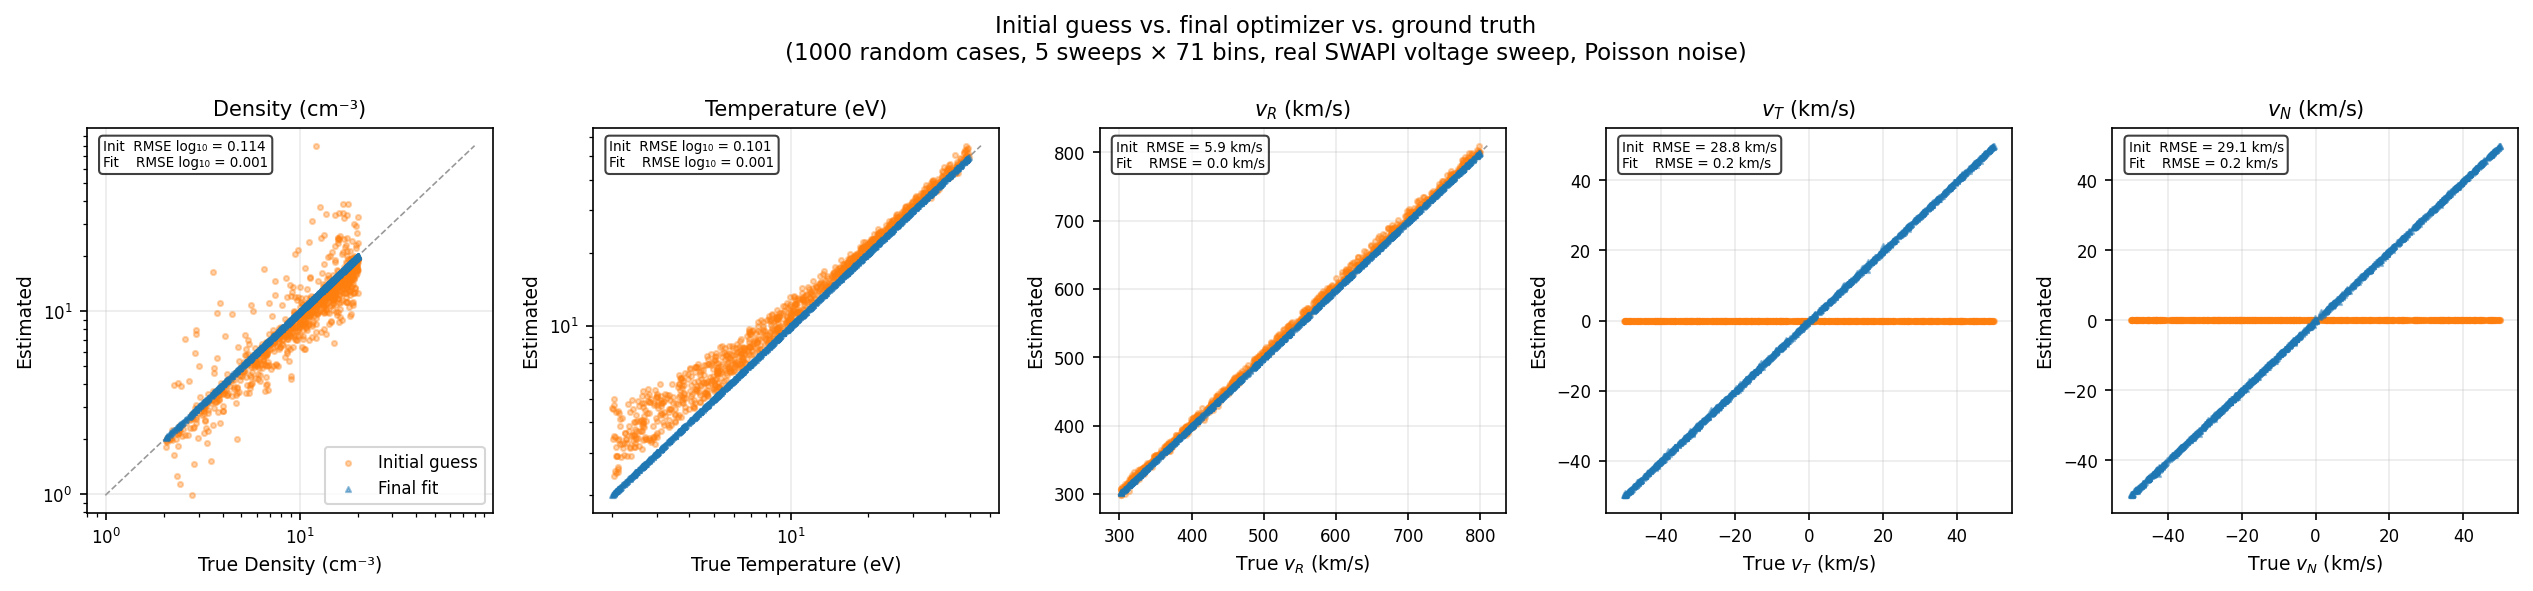
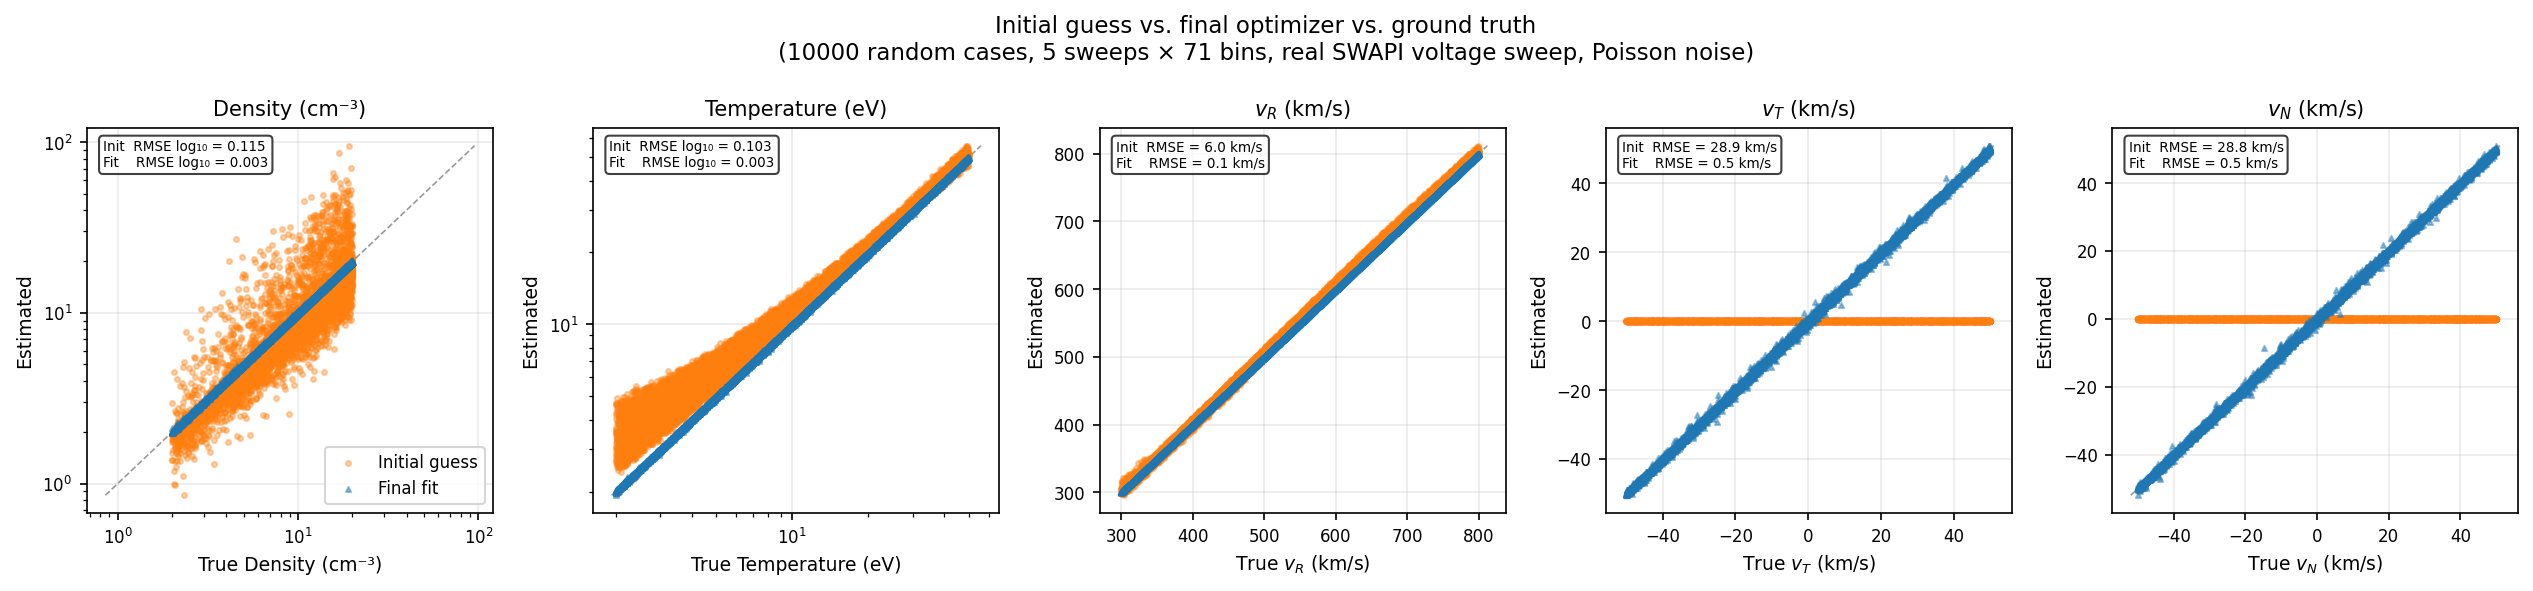
flip in instrument coordinates

diff --git a/docs/swapi/figure_src/plot_initial_guess_accuracy.py b/docs/swapi/figure_src/plot_initial_guess_accuracy.py
@@ -3,7 +3,7 @@
 Scatter plots comparing the initial guess and final optimizer output against
 ground truth for 1000 random solar wind parameter sets.
 
-Uses the real SWAPI 71-bin science voltage sweep (from the test L2 CDF) with 5
+Uses realistic SWAPI 71-bin science voltage sweep (from the test L2 CDF) with 5
 sweeps per fit — matching the production processor exactly. Synthetic count rates
 are generated from the forward model with realistic SWAPI geometry (spin axis =
 boresight = +Y_SWAPI, 15 s spin period) and Poisson noise.
@@ -62,7 +62,7 @@ _R_BASE_RTN_TO_SWAPI = np.array([[ 0.0, 1.0, 0.0],
 
 
 def _load_science_voltages() -> np.ndarray:
-    """Return the 71 science bin voltages from a real L2 CDF."""
+    """Return the 71 science bin voltages from a realistic L2 CDF."""
     with spacepy.pycdf.CDF(str(_TEST_L2_CDF)) as cdf:
         esa_energy = cdf['esa_energy'][...]  # shape (n_sweeps, 72), in eV
     return esa_energy.mean(axis=0)[SWAPI_SCIENCE_BINS] / SWAPI_K_FACTOR
@@ -124,7 +124,7 @@ def _run_cases(sr: SWAPIResponse, voltages: np.ndarray) -> dict:
         true_vel = np.array([v_b, vT, vN])
 
         cr = _model_count_rates(n, T, true_vel, tiled_grids, rot, sc_vel)
-        cr = np.random.default_rng(i).poisson(np.maximum(cr, 0.0)).astype(float)
+        cr = np.random.default_rng(i).poisson(np.maximum(cr * .145, 0.0)).astype(float) / .145
 
         ig     = _get_initial_guess(cr, esa_full, tiled_grids, rot, sc_vel)
         result = _optimize(cr, tiled_grids, rot, sc_vel, ig)
@@ -169,7 +169,7 @@ def main():
         _INSTRUMENT_DATA / "imap_swapi_passband-fit-coefficients_20260425_v001.csv",
     )
 
-    print("Loading real SWAPI science voltages...")
+    print("Loading realistic SWAPI science voltages...")
     voltages = _load_science_voltages()
     print(f"  {len(voltages)} bins, {voltages.min():.1f}–{voltages.max():.1f} V")
 
@@ -208,7 +208,7 @@ def main():
     fig.suptitle(
         f"Initial guess vs. final optimizer vs. ground truth\n"
         f"({_N_SAMPLES} random cases, {_N_SWEEPS} sweeps × {_N_BINS} bins, "
-        f"real SWAPI voltage sweep, Poisson noise)",
+        f"realistic SWAPI voltage sweep, Poisson noise)",
         fontsize=11,
     )
 

diff --git a/imap_l3_processing/swapi/l3a/science/calculate_proton_solar_wind_moments.py b/imap_l3_processing/swapi/l3a/science/calculate_proton_solar_wind_moments.py
@@ -549,10 +549,14 @@ def _optimize(
     result = scipy.optimize.least_squares(residuals, x0, method="lm", diff_step=1e-4)
 
     # Wrong-basin detection via spin-axis mirror flip; see docs/swapi/solar-wind-moments.md.
+    # Spin axis in RTN = body-Y direction expressed in RTN coords = row 1 of R[i].
+    # 180° rotation about that axis: v' = 2(v·s)s − v.
     chi2 = float(np.sum(result.fun**2))
+    spin_axis_rtn = rotation_matrices[0, 1, :]
+    v_rtn = result.x[2:5]
+    v_flipped = 2.0 * float(np.dot(v_rtn, spin_axis_rtn)) * spin_axis_rtn - v_rtn
     x_flipped = result.x.copy()
-    x_flipped[3] = -x_flipped[3]
-    x_flipped[4] = -x_flipped[4]
+    x_flipped[2:5] = v_flipped
     chi2_flipped = float(np.sum(residuals(x_flipped) ** 2))
     if chi2_flipped < chi2:
         result = scipy.optimize.least_squares(

diff --git a/docs/swapi/solar-wind-moments.md b/docs/swapi/solar-wind-moments.md
@@ -138,7 +138,7 @@ The initial temperature is $T_0 = m_p \sigma_{\text{thermal}, v}^2$.
 The initial density is scaled to match the mean observed count rate:
 $$n_0 = \frac{\langle C_i \rangle}{\langle C_i^\text{model}(n=1) \rangle}.$$
 
-Figure below shows initial-guess and final-fit accuracy across 1000 random solar wind configurations (bulk speed 300–800 km/s, temperature 2–50 eV log-uniform, density 2–20 cm⁻³, $v_T, v_N \in [-50, 50]$ km/s). Synthetic count rates are produced from the forward model using the real SWAPI 71-bin science voltage sweep (from the L2 CDF), 5 sweeps per fit, realistic spin geometry (spin axis = boresight, 15 s period), and Poisson noise — matching the production processor exactly. The velocity initial guess for $v_T$ and $v_N$ is zero by construction; the final optimizer recovers them from the spin-phase modulation. 0 bad-fit flags across all 1000 cases. Generated by `docs/swapi/figure_src/plot_initial_guess_accuracy.py`.
+Figure below shows initial-guess and final-fit accuracy across 10000 random solar wind configurations (bulk speed 300–800 km/s, temperature 2–50 eV log-uniform, density 2–20 cm⁻³, $v_T, v_N \in [-50, 50]$ km/s). Synthetic count rates are produced from the forward model using the real SWAPI 71-bin science voltage sweep (from the L2 CDF), 5 sweeps per fit, realistic spin geometry (spin axis = boresight, 15 s period), and Poisson noise — matching the production processor exactly. The velocity initial guess for $v_T$ and $v_N$ is zero by construction; the final optimizer recovers them from the spin-phase modulation. 0 bad-fit flags across all 10000 cases. Generated by `docs/swapi/figure_src/plot_initial_guess_accuracy.py`.
 
 ![Initial-guess vs. final-optimizer accuracy for 1000 synthetic solar wind cases](figures/initial_guess_accuracy.png)
 
@@ -154,7 +154,9 @@ Density and temperature are parameterized in log-space to keep them positive thr
 
 The forward model is approximately invariant under the spin-axis mirror $(v_T, v_N) \rightarrow (-v_T, -v_N)$, broken only weakly by the SG passband elevation asymmetry ($[-10.5°, +7°]$) and (in real data) spacecraft velocity. The two basins are *not* truly degenerate — the truth is the global minimum, and the mirror is a local minimum with $\chi^2$ typically $100$–$500\times$ higher. But starting LM from $(v_T, v_N) = (0, 0)$ puts the optimizer on the saddle between them, so noise can push it into either basin, and once committed it stays trapped at the local minimum.
 
-Detection is cheap: after LM converges to $\hat{\mathbf{x}} = (\log n, \log T, v_R, v_T, v_N)$, evaluate the residual at the flipped point $\hat{\mathbf{x}}' = (\log n, \log T, v_R, -v_T, -v_N)$. If $\chi^2(\hat{\mathbf{x}}') < \chi^2(\hat{\mathbf{x}})$, LM was in the wrong basin — re-run LM from $\hat{\mathbf{x}}'$ to land at the correct local minimum. The cost is one extra residual evaluation in the typical case, plus one extra LM run for the $\sim 1\%$ of cases that need it. On a 1000-case synthetic benchmark covering bulk speeds 300–800 km/s and temperatures 2–50 eV, this fixes 8/8 sign-flip failures with no false positives.
+Detection is cheap: after LM converges to $\hat{\mathbf{x}} = (\log n, \log T, \mathbf{v}_b)$, build the flipped solution by rotating the bulk velocity 180° about the spin axis ($\hat{\mathbf{s}}$ in RTN, recovered as the second row of any rotation matrix since $R_i \hat{\mathbf{s}} = \hat{\mathbf{y}}_\text{SWAPI}$ by design):
+$$\mathbf{v}_b' = 2(\mathbf{v}_b \cdot \hat{\mathbf{s}})\,\hat{\mathbf{s}} - \mathbf{v}_b.$$
+This works for any spin axis orientation, not just radial. Evaluate the residual at $\hat{\mathbf{x}}' = (\log n, \log T, \mathbf{v}_b')$. If $\chi^2(\hat{\mathbf{x}}') < \chi^2(\hat{\mathbf{x}})$, LM was in the wrong basin — re-run LM from $\hat{\mathbf{x}}'$ to land at the correct local minimum. The cost is one extra residual evaluation in the typical case, plus one extra LM run for the $\sim 1\%$ of cases that need it. On a 1000-case synthetic benchmark covering bulk speeds 300–800 km/s and temperatures 2–50 eV, this fixes 8/8 sign-flip failures with no false positives.
 
 ![χ² landscape in the (v_T, v_N) plane showing the truth and spin-axis-mirror minima](figures/wrong_basin.png)
 
